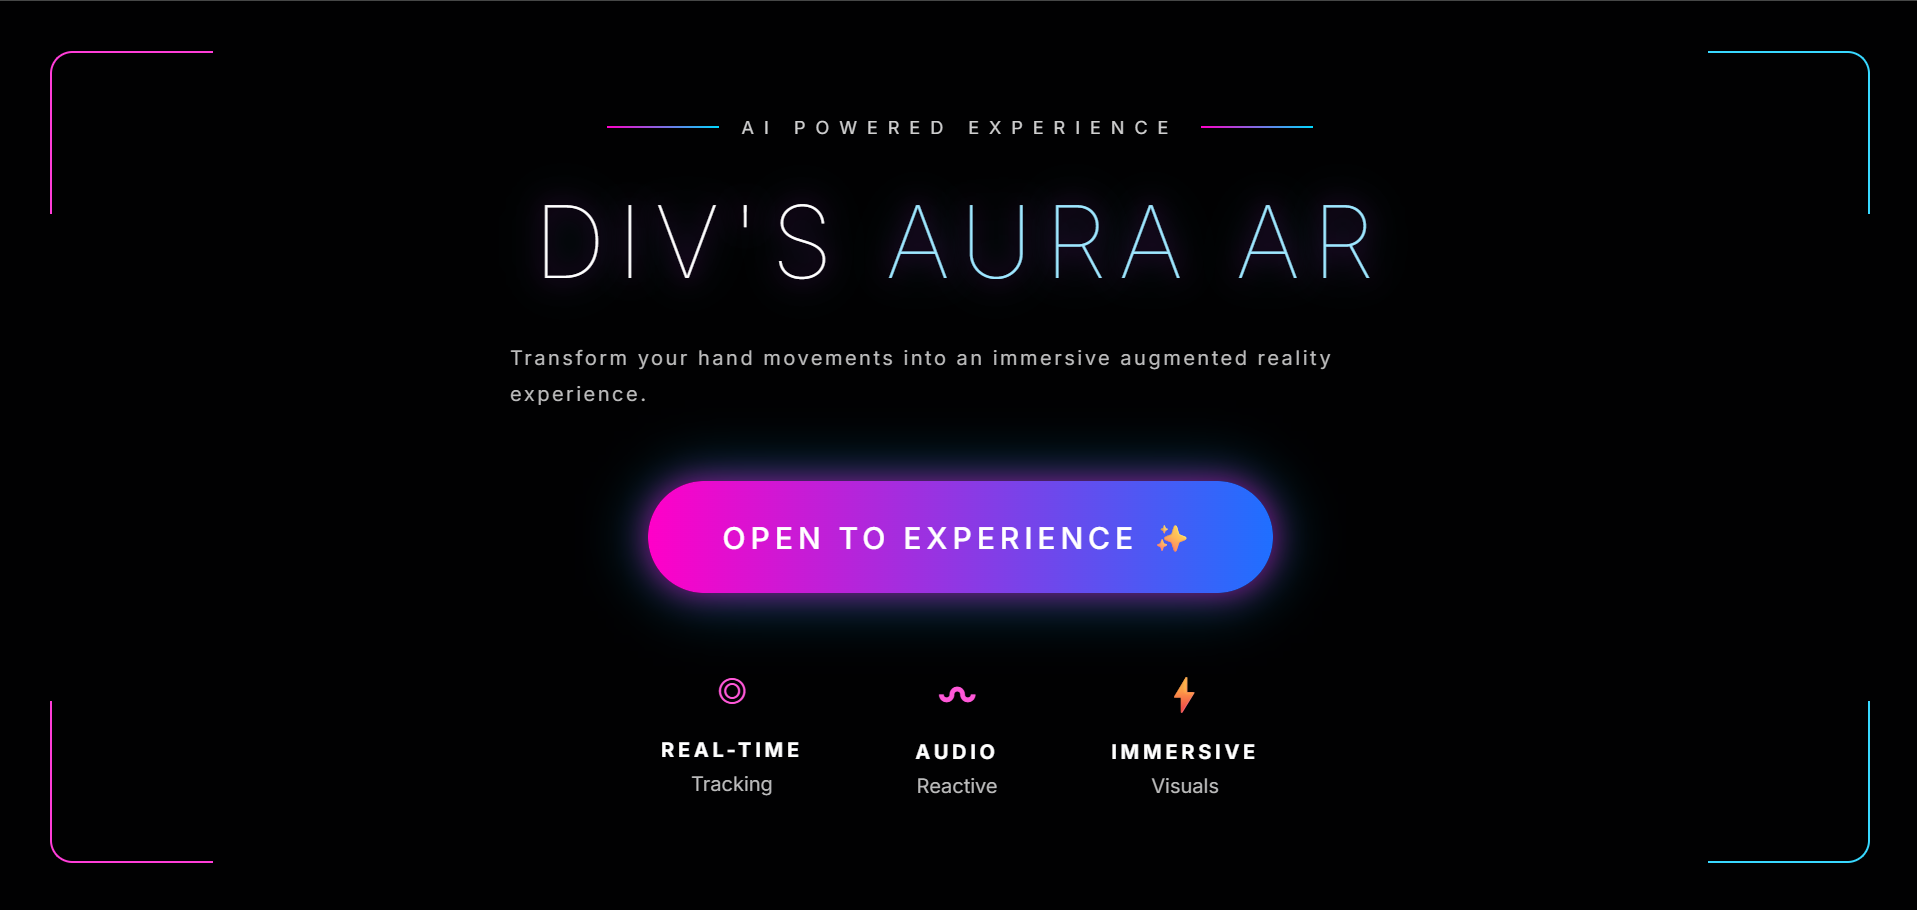
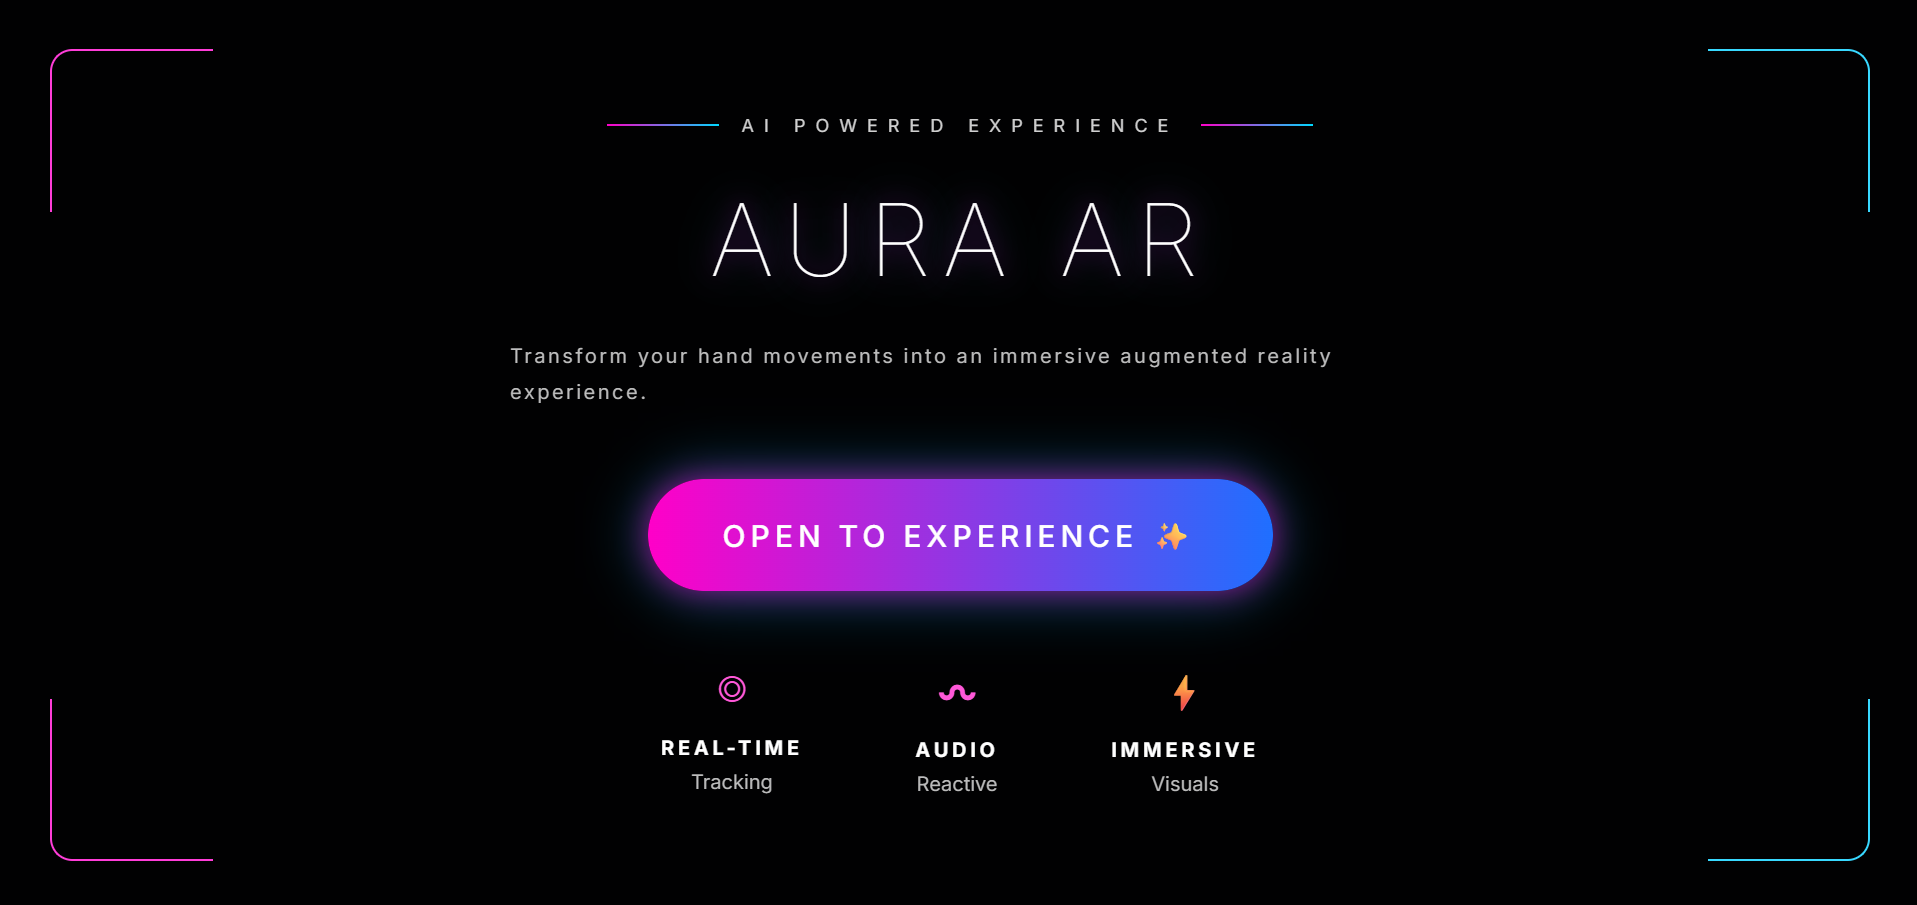
Commit

diff --git a/index.html b/index.html
@@ -6,10 +6,10 @@
     <meta name="viewport" content="width=device-width, initial-scale=1.0">
     <meta name="description"
         content="DIV'S AURA AR — Transform your hand movements into an immersive augmented reality experience with real-time AI tracking, reactive audio, and stunning visuals.">
-    <meta property="og:title" content="DIV'S AURA AR">
+    <meta property="og:title" content="AURA AR">
     <meta property="og:description" content="AI-powered hand tracking augmented reality experience">
     <meta property="og:type" content="website">
-    <title>DIV'S AURA AR</title>
+    <title>AURA AR</title>
 
     <!-- Google Fonts -->
     <link rel="preconnect" href="https://fonts.googleapis.com">
@@ -46,7 +46,7 @@
         </div>
 
         <h1 class="hero-title">
-            DIV'S <span>AURA AR</span>
+            AURA AR
         </h1>
 
         <p class="hero-subtitle">

diff --git a/README.md b/README.md
@@ -29,7 +29,7 @@ Experience real-time AI hand tracking directly in your browser.
 
 # 📖 About
 
-HandConnectDiv is an interactive browser-based application that combines **Google MediaPipe Hands**, **HTML5 Canvas**, and **JavaScript** to create a futuristic hand-tracking experience.
+HandConnect is an interactive browser-based application that combines **Google MediaPipe Hands**, **HTML5 Canvas**, and **JavaScript** to create a futuristic hand-tracking experience.
 
 The application detects hand landmarks in real time and renders glowing particles, rainbow connectors, lightning effects, gesture detection, shockwaves, and dynamic visual themes.
 
